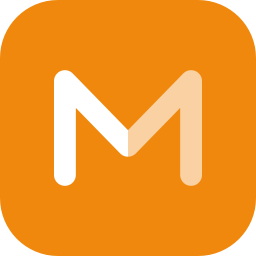
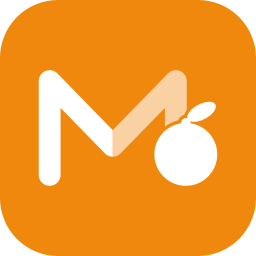
アプリアイコンの M の右足にみかんを重ねる
M で始まる果物のみかんを、白一色の単純な形で右足に重ねる。実の下端は M の底辺にそろえ、
重なる部分は地色の縁取りで切り分ける。M とみかんを1つのマークとしてタイルの中央に置く。

Changed region(s): [[0.125, 0.25, 0.875, 0.75]]

diff --git a/src/local_media_viewer/appicon.py b/src/local_media_viewer/appicon.py
@@ -12,29 +12,35 @@ from PySide6.QtSvg import QSvgRenderer
 # temporary directory and carries no assets folder.
 ICON_SVG = """\
 <svg xmlns="http://www.w3.org/2000/svg" viewBox="0 0 256 256" width="256" height="256"><\
-rect width="256" height="256" rx="58" fill="#F0880D"/><g transform="translate(128 128) s\
-cale(0.80874) translate(-78.000 -58.000)"><path d="M-13.50 116.00 L-13.50 0.00 L-13.39 -\
-1.69 L-13.09 -3.32 L-12.59 -4.88 L-11.92 -6.35 L-11.08 -7.71 L-10.09 -8.97 L-8.97 -10.09\
- L-7.71 -11.08 L-6.35 -11.92 L-4.88 -12.59 L-3.32 -13.09 L-1.69 -13.39 L0.00 -13.50 L1.6\
-9 -13.39 L3.32 -13.09 L4.88 -12.59 L6.35 -11.92 L7.71 -11.08 L8.97 -10.09 L9.67 -9.39 L9\
-.67 -9.42 L78.00 60.66 L78.00 93.50 L76.75 93.44 L75.53 93.28 L74.35 93.00 L73.22 92.63 \
-L72.13 92.16 L71.09 91.60 L70.11 90.95 L69.19 90.23 L68.33 89.42 L68.33 89.42 L13.50 33.\
-18 L13.50 116.00 L13.39 117.69 L13.09 119.32 L12.59 120.88 L11.92 122.35 L11.08 123.71 L\
-10.09 124.97 L8.97 126.09 L7.71 127.08 L6.35 127.92 L4.88 128.59 L3.32 129.09 L1.69 129.\
-39 L0.00 129.50 L-1.69 129.39 L-3.32 129.09 L-4.88 128.59 L-6.35 127.92 L-7.71 127.08 L-\
-8.97 126.09 L-10.09 124.97 L-11.08 123.71 L-11.92 122.35 L-12.59 120.88 L-13.09 119.32 L\
--13.39 117.69 L-13.50 116.00 Z" fill="#FFFFFF"/><path d="M78.00 60.66 L146.33 -9.42 L147\
-.19 -10.23 L148.11 -10.95 L149.09 -11.60 L150.13 -12.16 L151.22 -12.63 L152.35 -13.00 L1\
-53.53 -13.28 L154.75 -13.44 L156.00 -13.50 L157.69 -13.39 L159.32 -13.09 L160.88 -12.59 \
-L162.35 -11.92 L163.71 -11.08 L164.97 -10.09 L166.09 -8.97 L167.08 -7.71 L167.92 -6.35 L\
-168.59 -4.88 L169.09 -3.32 L169.39 -1.69 L169.50 0.00 L169.50 116.00 L169.39 117.69 L169\
-.09 119.32 L168.59 120.88 L167.92 122.35 L167.08 123.71 L166.09 124.97 L164.97 126.09 L1\
-63.71 127.08 L162.35 127.92 L160.88 128.59 L159.32 129.09 L157.69 129.39 L156.00 129.50 \
-L154.31 129.39 L152.68 129.09 L151.12 128.59 L149.65 127.92 L148.29 127.08 L147.03 126.0\
-9 L145.91 124.97 L144.92 123.71 L144.08 122.35 L143.41 120.88 L142.91 119.32 L142.61 117\
-.69 L142.50 116.00 L142.50 33.18 L87.67 89.42 L86.81 90.23 L85.89 90.95 L84.91 91.60 L83\
-.87 92.16 L82.78 92.63 L81.65 93.00 L80.47 93.28 L79.25 93.44 L78.00 93.50 Z" fill="#FFF\
-FFF" fill-opacity="0.62"/></g></svg>"""
+rect width="256" height="256" rx="58" fill="#F0880D"/><g transform="translate(-15.27 0)"\
+><g transform="translate(128 128) scale(0.80874) translate(-78.000 -58.000)"><path d="M-\
+13.50 116.00 L-13.50 0.00 L-13.39 -1.69 L-13.09 -3.32 L-12.59 -4.88 L-11.92 -6.35 L-11.0\
+8 -7.71 L-10.09 -8.97 L-8.97 -10.09 L-7.71 -11.08 L-6.35 -11.92 L-4.88 -12.59 L-3.32 -13\
+.09 L-1.69 -13.39 L0.00 -13.50 L1.69 -13.39 L3.32 -13.09 L4.88 -12.59 L6.35 -11.92 L7.71\
+ -11.08 L8.97 -10.09 L9.67 -9.39 L9.67 -9.42 L78.00 60.66 L78.00 93.50 L76.75 93.44 L75.\
+53 93.28 L74.35 93.00 L73.22 92.63 L72.13 92.16 L71.09 91.60 L70.11 90.95 L69.19 90.23 L\
+68.33 89.42 L68.33 89.42 L13.50 33.18 L13.50 116.00 L13.39 117.69 L13.09 119.32 L12.59 1\
+20.88 L11.92 122.35 L11.08 123.71 L10.09 124.97 L8.97 126.09 L7.71 127.08 L6.35 127.92 L\
+4.88 128.59 L3.32 129.09 L1.69 129.39 L0.00 129.50 L-1.69 129.39 L-3.32 129.09 L-4.88 12\
+8.59 L-6.35 127.92 L-7.71 127.08 L-8.97 126.09 L-10.09 124.97 L-11.08 123.71 L-11.92 122\
+.35 L-12.59 120.88 L-13.09 119.32 L-13.39 117.69 L-13.50 116.00 Z" fill="#FFFFFF"/><path\
+ d="M78.00 60.66 L146.33 -9.42 L147.19 -10.23 L148.11 -10.95 L149.09 -11.60 L150.13 -12.\
+16 L151.22 -12.63 L152.35 -13.00 L153.53 -13.28 L154.75 -13.44 L156.00 -13.50 L157.69 -1\
+3.39 L159.32 -13.09 L160.88 -12.59 L162.35 -11.92 L163.71 -11.08 L164.97 -10.09 L166.09 \
+-8.97 L167.08 -7.71 L167.92 -6.35 L168.59 -4.88 L169.09 -3.32 L169.39 -1.69 L169.50 0.00\
+ L169.50 116.00 L169.39 117.69 L169.09 119.32 L168.59 120.88 L167.92 122.35 L167.08 123.\
+71 L166.09 124.97 L164.97 126.09 L163.71 127.08 L162.35 127.92 L160.88 128.59 L159.32 12\
+9.09 L157.69 129.39 L156.00 129.50 L154.31 129.39 L152.68 129.09 L151.12 128.59 L149.65 \
+127.92 L148.29 127.08 L147.03 126.09 L145.91 124.97 L144.92 123.71 L144.08 122.35 L143.4\
+1 120.88 L142.91 119.32 L142.61 117.69 L142.50 116.00 L142.50 33.18 L87.67 89.42 L86.81 \
+90.23 L85.89 90.95 L84.91 91.60 L83.87 92.16 L82.78 92.63 L81.65 93.00 L80.47 93.28 L79.\
+25 93.44 L78.00 93.50 Z" fill="#FFFFFF" fill-opacity="0.62"/></g><g transform="translate\
+(201.08 146.97) scale(1.85)" fill="#F0880D" stroke="#F0880D" stroke-width="3.78" stroke-\
+linejoin="round"><circle cx="0" cy="4" r="17"/><circle cx="0" cy="-13" r="2.6"/><ellipse\
+ cx="8.5" cy="-19" rx="8.5" ry="4.2" transform="rotate(-28 8.5 -19)"/></g><g transform="\
+translate(201.08 146.97) scale(1.85)" fill="#FFFFFF"><circle cx="0" cy="4" r="17"/><circ\
+le cx="0" cy="-13" r="2.6"/><ellipse cx="8.5" cy="-19" rx="8.5" ry="4.2" transform="rota\
+te(-28 8.5 -19)"/></g></g></svg>"""
 
 ICON_SIZES = (16, 24, 32, 48, 64, 128, 256)
 APP_MODEL_ID = "LocalMediaViewer.Viewer"

diff --git a/tests/test_appicon.py b/tests/test_appicon.py
@@ -47,7 +47,19 @@ def test_the_embedded_icon_matches_the_asset() -> None:
     assert ICON_SVG == asset.read_text(encoding="utf-8")
 
 
-def test_the_arms_of_the_m_meet_in_one_solid_joint() -> None:
+def icon_layout():
+    """scripts/make_icon.py, loaded for the geometry it lays the icon out by."""
+    import importlib.util
+    from pathlib import Path
+
+    script = Path(__file__).resolve().parents[1] / "scripts" / "make_icon.py"
+    spec = importlib.util.spec_from_file_location("make_icon", script)
+    module = importlib.util.module_from_spec(spec)
+    spec.loader.exec_module(module)
+    return module
+
+
+def rendered_icon(size: int):
     from PySide6.QtCore import QRectF, Qt
     from PySide6.QtGui import QImage, QPainter
     from PySide6.QtSvg import QSvgRenderer
@@ -55,16 +67,48 @@ def test_the_arms_of_the_m_meet_in_one_solid_joint() -> None:
     from local_media_viewer.appicon import ICON_SVG
 
     QApplication.instance() or QApplication([])
-    image = QImage(256, 256, QImage.Format.Format_ARGB32)
+    image = QImage(size, size, QImage.Format.Format_ARGB32)
     image.fill(Qt.GlobalColor.transparent)
     painter = QPainter(image)
     painter.setRenderHint(QPainter.RenderHint.Antialiasing, True)
-    QSvgRenderer(ICON_SVG.encode("utf-8")).render(painter, QRectF(0, 0, 256, 256))
+    QSvgRenderer(ICON_SVG.encode("utf-8")).render(painter, QRectF(0, 0, size, size))
     painter.end()
+    return image
+
+
+def test_the_arms_of_the_m_meet_in_one_solid_joint() -> None:
+    layout = icon_layout()
+    image = rendered_icon(256)
+    # The mark is shifted left to make room for the mikan beside it.
+    centre = round(128 + layout.SHIFT_X)
     # Just above where the arms meet. The old icon drew two separate strokes
     # whose round ends barely touched, leaving the amber showing through here.
-    joint = image.pixelColor(128, 140)
+    joint = image.pixelColor(centre, 140)
     assert joint.green() > 200 and joint.blue() > 150, joint.name()
     # Either side of the centre, the halves keep their two tones.
-    assert image.pixelColor(122, 140).name() == "#ffffff"
-    assert image.pixelColor(134, 140).name() != "#ffffff"
+    assert image.pixelColor(centre - 6, 140).name() == "#ffffff"
+    assert image.pixelColor(centre + 6, 140).name() != "#ffffff"
+
+
+def test_the_mikan_stands_on_the_m_and_the_pair_is_centred() -> None:
+    layout = icon_layout()
+    size = 512
+    image = rendered_icon(size)
+    scale = size / 256
+
+    def white(x: int, y: int) -> bool:
+        colour = image.pixelColor(x, y)
+        return colour.red() > 250 and colour.green() > 250 and colour.blue() > 250
+
+    def lowest_white(x: float) -> int:
+        column = round(x * scale)
+        return max(y for y in range(size) if white(column, y))
+
+    left_leg = 128 - 78 * layout.M_SCALE + layout.SHIFT_X
+    mikan = layout.MIKAN_X + layout.SHIFT_X
+    # The fruit's bottom sits on the M's baseline, as the user asked.
+    assert abs(lowest_white(mikan) - lowest_white(left_leg)) <= 1
+
+    # The M and the fruit together sit in the middle of the tile.
+    columns = [x for x in range(size) if any(white(x, y) for y in range(0, size, 2))]
+    assert abs(columns[0] - (size - 1 - columns[-1])) <= 2

diff --git a/scripts/make_icon.py b/scripts/make_icon.py
@@ -36,9 +36,41 @@ STROKE_WIDTH = 27.0
 # Centre line of the M, in the same units the old icon used: 156 wide, 116
 # tall, the two arms meeting at the middle, (78, 80).
 CENTRE_LINE = [(0.0, 116.0), (0.0, 0.0), (78.0, 80.0), (156.0, 0.0), (156.0, 116.0)]
-# Placed in the 256 box exactly as before, so the mark keeps its size.
-PLACEMENT = "translate(128 128) scale(0.80874) translate(-78.000 -58.000)"
+# Placed in the 256 box at the size it always had.
+M_SCALE = 0.80874
+PLACEMENT = f"translate(128 128) scale({M_SCALE}) translate(-78.000 -58.000)"
 RIGHT_OPACITY = 0.62
+
+# The mikan (みかん, an M fruit) sitting on the M's right leg, drawn as plainly
+# as the Apple apple: a round body, a stem and a separate leaf. In its own
+# units the body is a circle of radius 17 centred 4 below the origin.
+MIKAN = (
+    '<circle cx="0" cy="4" r="17"/>'
+    '<circle cx="0" cy="-13" r="2.6"/>'
+    '<ellipse cx="8.5" cy="-19" rx="8.5" ry="4.2" transform="rotate(-28 8.5 -19)"/>'
+)
+MIKAN_BODY_BOTTOM = 4 + 17
+MIKAN_BODY_RADIUS = 17
+MIKAN_SCALE = 1.85
+# Right of the leg's centre line, so the body's curve reads cleanly; further
+# and a sliver of the leg shows beside it (tried 0, 10 and 18).
+MIKAN_OFFSET = 10
+# An amber ring round the fruit cuts it out of the white M it overlaps, so the
+# two silhouettes stay apart instead of merging into one blob.
+KEYLINE = 7
+
+# Where the M sits in the tile: its legs end at y=116 with a round cap of half
+# a stroke, and its right leg runs down x=156.
+M_BOTTOM = 128 + (116 - 58) * M_SCALE + STROKE_WIDTH / 2 * M_SCALE
+M_LEFT = 128 - 78 * M_SCALE - STROKE_WIDTH / 2 * M_SCALE
+M_RIGHT_LEG = 128 + (156 - 78) * M_SCALE
+# The fruit's bottom stands on the M's baseline (asked for by the user).
+MIKAN_X = M_RIGHT_LEG + MIKAN_OFFSET
+MIKAN_Y = M_BOTTOM - MIKAN_BODY_BOTTOM * MIKAN_SCALE
+# The fruit sticks out to the right of the M, so the pair is shifted left to
+# sit centred in the tile as one mark.
+MARK_RIGHT = MIKAN_X + MIKAN_BODY_RADIUS * MIKAN_SCALE
+SHIFT_X = 128 - (M_LEFT + MARK_RIGHT) / 2
 
 
 def outline() -> QPainterPath:
@@ -74,12 +106,19 @@ def icon_svg() -> str:
     right_box.addRect(QRectF(middle, -margin, 156 - middle + margin, 116 + 2 * margin))
     left = whole.intersected(left_box)
     right = whole.intersected(right_box)
+    fruit = f'transform="translate({MIKAN_X:.2f} {MIKAN_Y:.2f}) scale({MIKAN_SCALE})"'
     return (
         '<svg xmlns="http://www.w3.org/2000/svg" viewBox="0 0 256 256" width="256" height="256">'
         f'<rect width="256" height="256" rx="58" fill="{BACKGROUND}"/>'
+        f'<g transform="translate({SHIFT_X:.2f} 0)">'
         f'<g transform="{PLACEMENT}">'
         f'<path d="{svg_path(left)}" fill="#FFFFFF"/>'
         f'<path d="{svg_path(right)}" fill="#FFFFFF" fill-opacity="{RIGHT_OPACITY}"/>'
+        "</g>"
+        # The keyline first, in the background colour, then the fruit on it.
+        f'<g {fruit} fill="{BACKGROUND}" stroke="{BACKGROUND}" '
+        f'stroke-width="{KEYLINE / MIKAN_SCALE:.2f}" stroke-linejoin="round">{MIKAN}</g>'
+        f'<g {fruit} fill="#FFFFFF">{MIKAN}</g>'
         "</g></svg>"
     )
 
